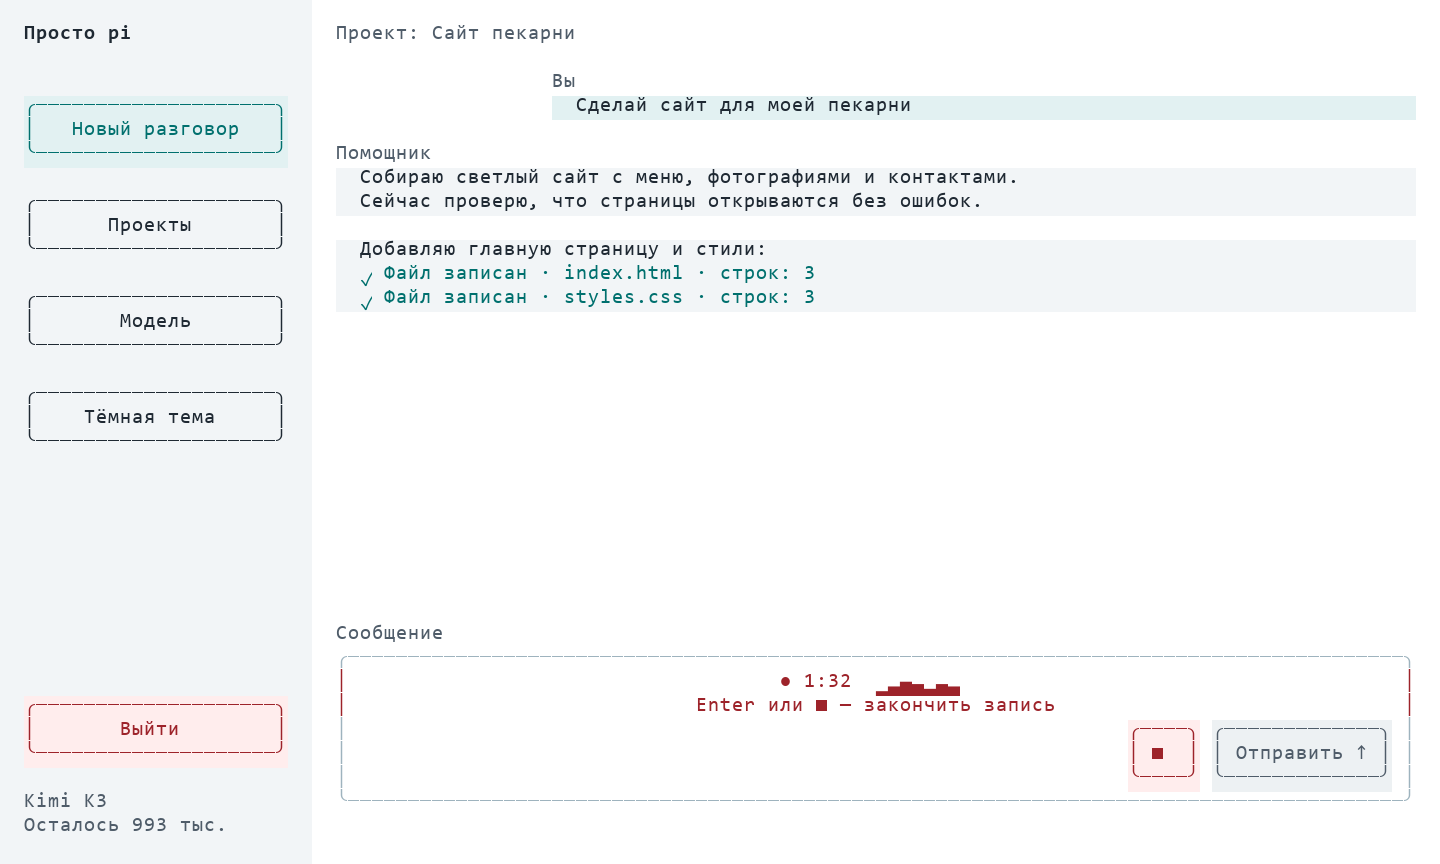
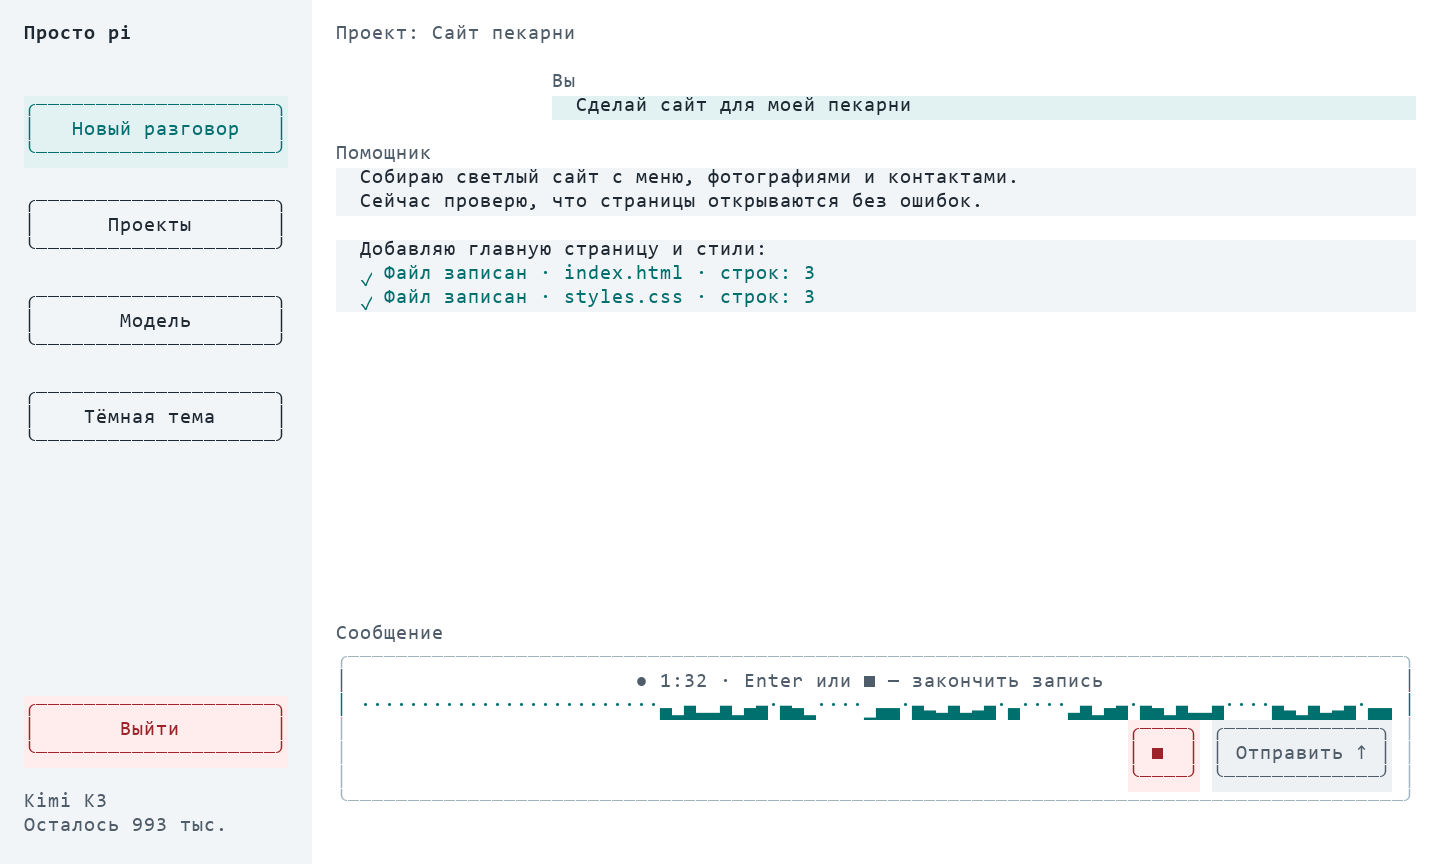
Show scrolling voice waveform and guide microphone setup

Changed region(s): [[0.4375, 0.7812, 0.9688, 0.8438]]

diff --git a/design/render_preview.py b/design/render_preview.py
@@ -3,7 +3,7 @@ import json,re,sys
 from pathlib import Path
 from PIL import Image,ImageDraw,ImageFont
 root=Path(__file__).parent
-for mode in ['work','error','history','chats','form','exit','project-choice','voice-recording','voice-progress','voice-download']:
+for mode in ['work','error','history','chats','form','exit','project-choice','voice-recording','voice-progress','voice-download','voice-hint']:
  rows=json.loads((root/f'preview-{mode}.json').read_text(encoding='utf-8'));cw,ch=12,24
  im=Image.new('RGB',(120*cw,len(rows)*ch),'white');d=ImageDraw.Draw(im)
  fonts=[ImageFont.truetype('C:/Windows/Fonts/consola.ttf',20),ImageFont.truetype('C:/Windows/Fonts/consolab.ttf',20)]

diff --git a/README.md b/README.md
@@ -117,3 +117,7 @@ MIT.
 Источники: [GigaAM](https://github.com/salute-developers/GigaAM), [ONNX-конверсия Ilya Stupakov](https://huggingface.co/istupakov/gigaam-v3-onnx), [onnx-asr](https://github.com/istupakov/onnx-asr), [miniaudio](https://github.com/irmen/pyminiaudio), [uv](https://github.com/astral-sh/uv). Версия ONNX-модели закреплена по commit и SHA-256, установщик uv — по версии и SHA-256; зависимости Python закреплены в `voice-setup.mjs`.
 
 Проверено на Windows: реальный запуск ONNX-модели, 120 секунд тестовой речи с пофрагментным прогрессом, сохранение черновика, отмена при смене чата и завершение worker. В текущем окружении macOS/Linux не запускались; для них проверены пути запуска и наличие бинарных зависимостей. Микрофон пользователя в автоматической проверке не записывался.
+
+Значок микрофона виден и во время подготовки: нажатие показывает подсказку «Для голосового ввода дождитесь загрузки голосовой модели» со стрелкой влево и подсвечивает блок загрузки на 3 секунды. Запись до готовности модели не начинается.
+
+Во время записи внутри поля ввода показана история громкости: новые значения появляются справа и сдвигаются влево, тишина обозначается точками. Enter завершает запись и запускает распознавание; отправка текста остаётся ручной.
